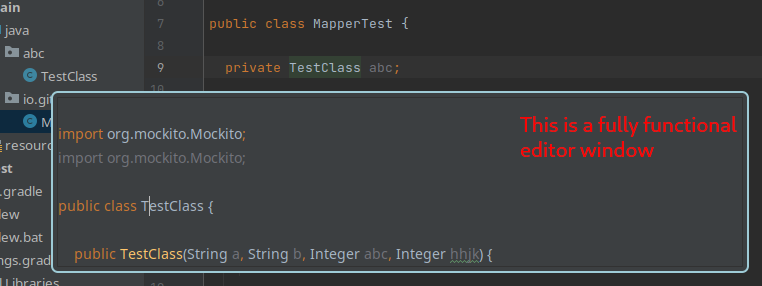
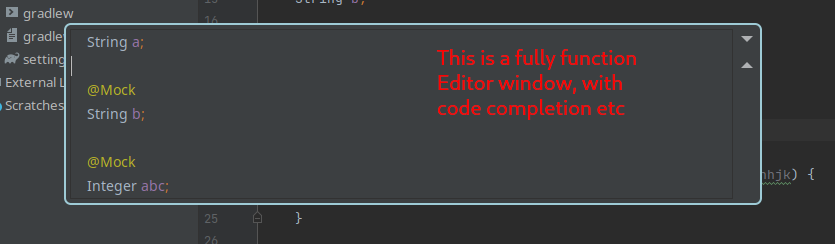
Fixing introduce mock bug.

diff --git a/marketplace-changenotes.html b/marketplace-changenotes.html
@@ -1,3 +1,4 @@
 <ul>
-    <li>Refactored Introduce Mock. It now combines all methods and even adds a new one</li>
+    <li>Bugfix for Introduce Mock</li>
+    <li>General improvements for the CodeLense. PageUp/Down in CodeLense etc</li>
 </ul>

diff --git a/README.MD b/README.MD
@@ -215,10 +215,13 @@ Pressing **escape** closes the window.
 
 ![code lense file](code-lense-file.png)
 
-Press **CTRL + I, CTRL + V** to open a window, ready to add a field to a class.
-Press **CTRL + L, CTRL + F** to open a window on the selected class.
+Page Up & Page Down will scroll through specific entities, depending on the type of
+CodeLense.
 
-----------------------
+Press **CTRL + I, CTRL + V** to open a CodeLense, ready to add a field to a class.  
+Press **CTRL + L, CTRL + F** to open a CodeLense on the selected class.  
+
+---------------------- 
 
 ## VariableFinder
 
